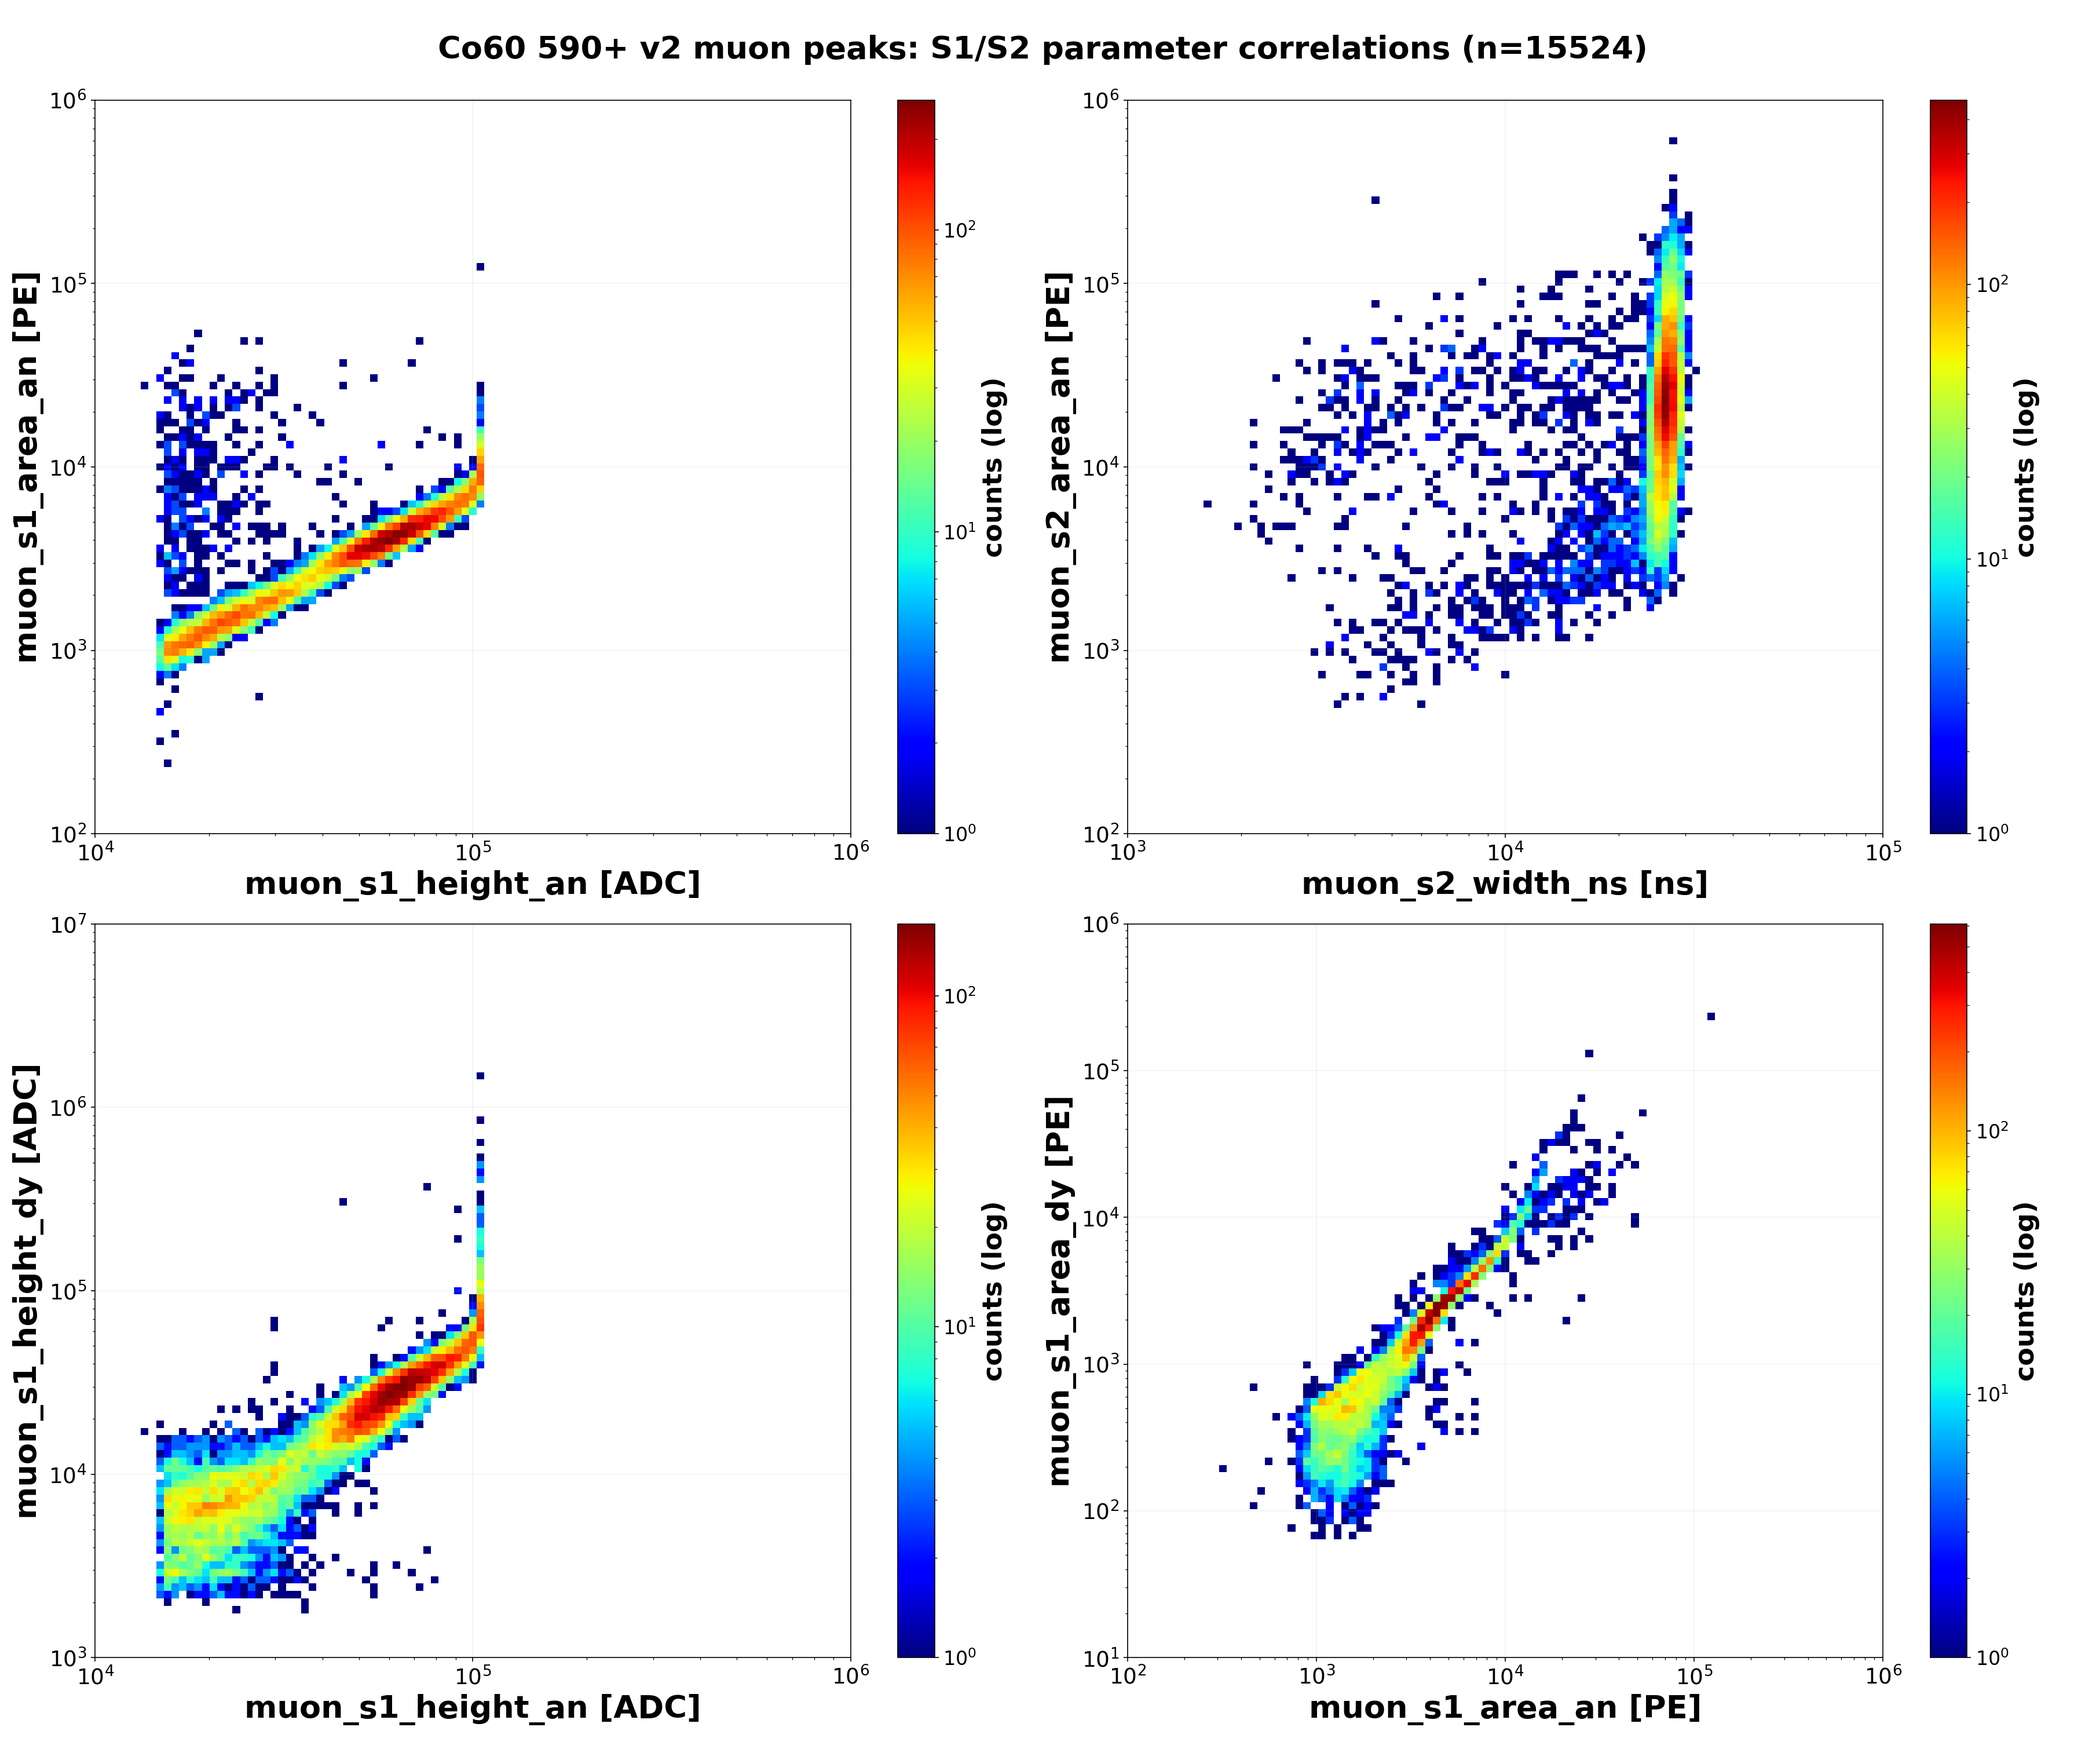
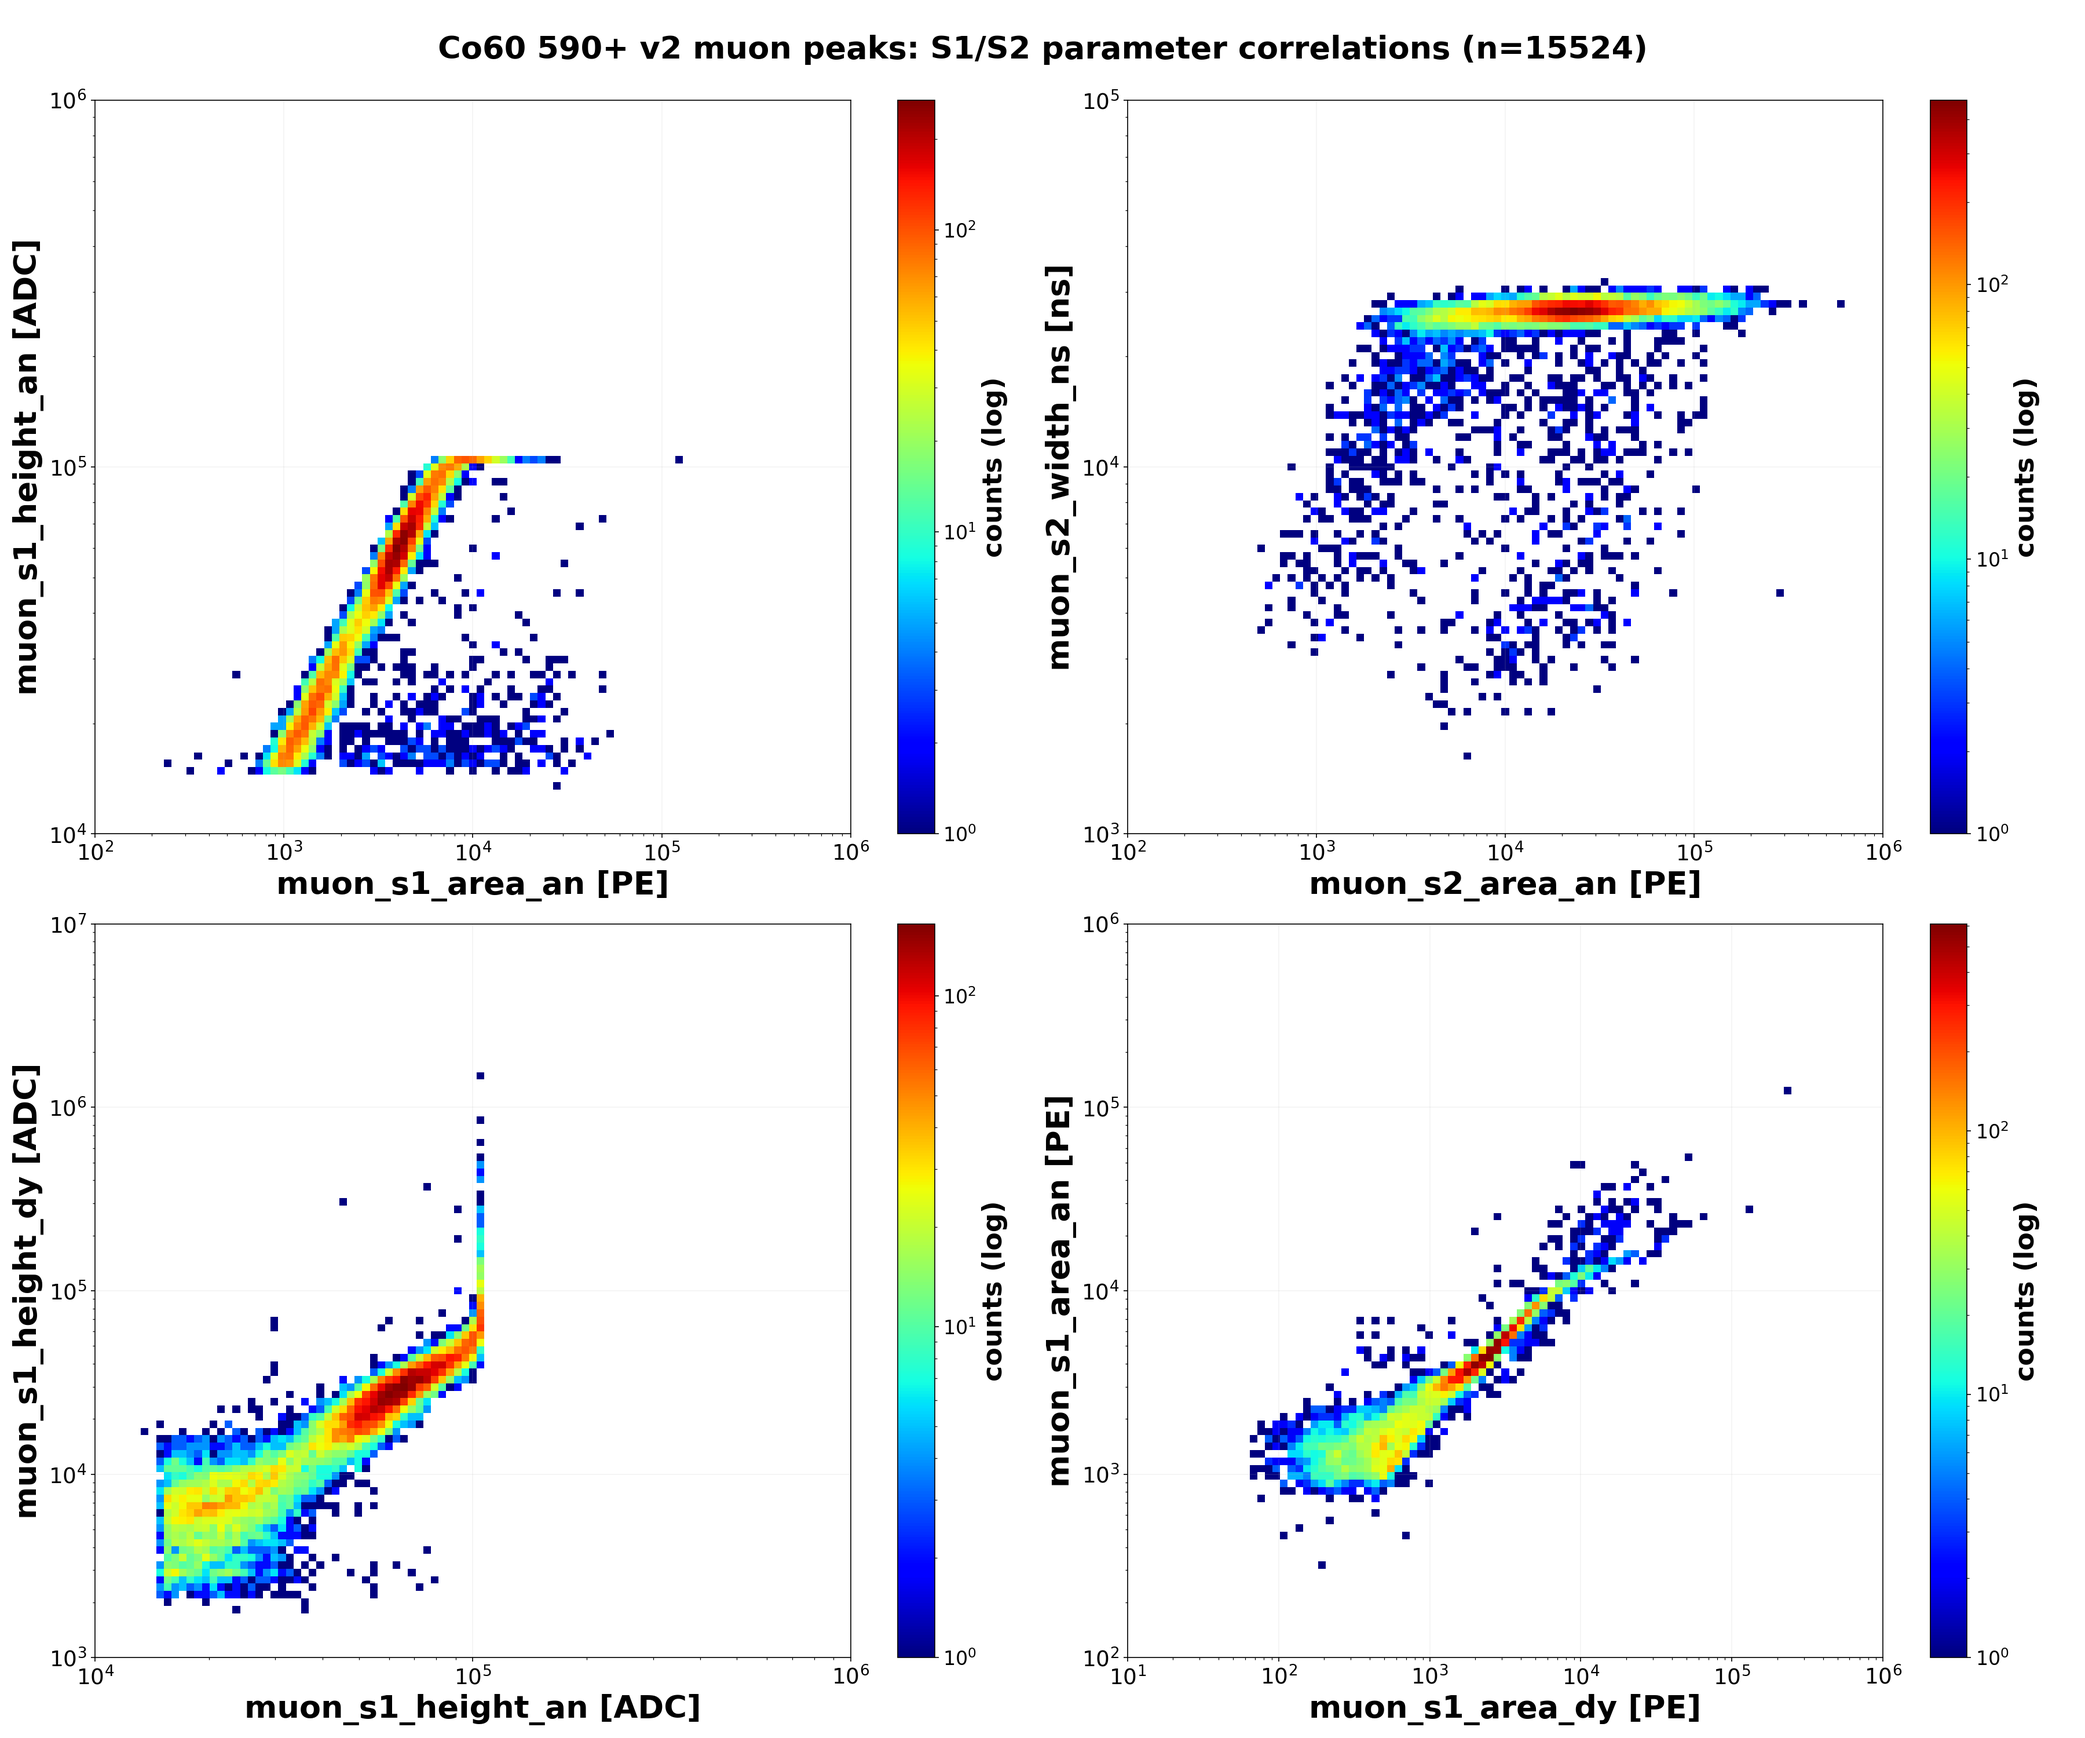
muon S1/S2 2D: swap axes (area_an vs height_an / area_an vs width_ns / area_dy vs area_an)

diff --git a/scripts/plot_muon_s1s2_params.py b/scripts/plot_muon_s1s2_params.py
@@ -67,14 +67,14 @@ print("saved 1D")
 
 # --- Figure 2: 2D histograms ---
 panels2 = [
-    ("muon_s1_height_an", "muon_s1_area_an",
-     "muon_s1_height_an [ADC]", "muon_s1_area_an [PE]"),
-    ("muon_s2_width_ns", "muon_s2_area_an",
-     "muon_s2_width_ns [ns]", "muon_s2_area_an [PE]"),
+    ("muon_s1_area_an", "muon_s1_height_an",
+     "muon_s1_area_an [PE]", "muon_s1_height_an [ADC]"),
+    ("muon_s2_area_an", "muon_s2_width_ns",
+     "muon_s2_area_an [PE]", "muon_s2_width_ns [ns]"),
     ("muon_s1_height_an", "muon_s1_height_dy",
      "muon_s1_height_an [ADC]", "muon_s1_height_dy [ADC]"),
-    ("muon_s1_area_an", "muon_s1_area_dy",
-     "muon_s1_area_an [PE]", "muon_s1_area_dy [PE]"),
+    ("muon_s1_area_dy", "muon_s1_area_an",
+     "muon_s1_area_dy [PE]", "muon_s1_area_an [PE]"),
 ]
 fig, axes = plt.subplots(2, 2, figsize=(24, 20))
 for ax, (xc, yc, xlab, ylab) in zip(axes.ravel(), panels2):
